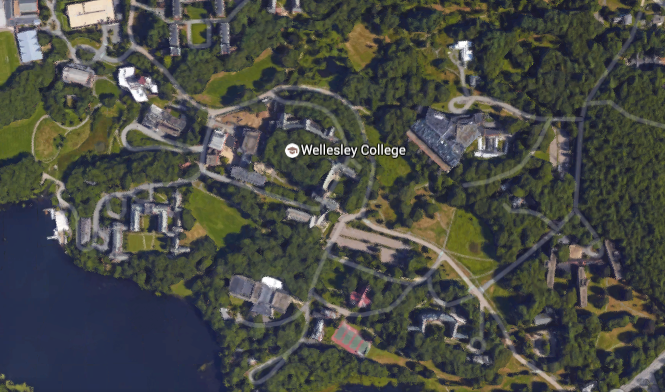
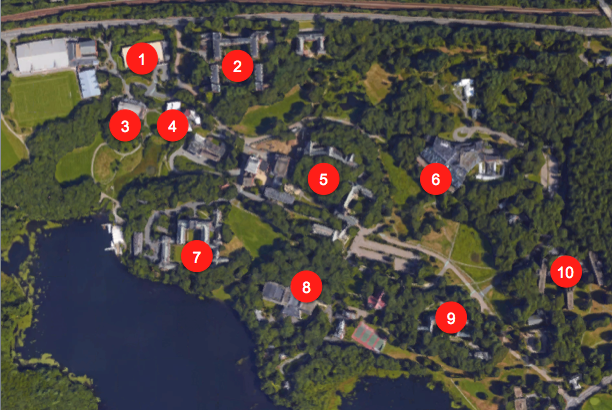
GUI
Working Submit button
Map w/ key

diff --git a/HomePanel.java b/HomePanel.java
@@ -19,9 +19,10 @@ import javax.imageio.ImageIO;
 
 public class HomePanel extends JPanel{
   private JLabel header, origin, destination, footer;
-  private JPanel navi;
+  private JPanel navi, map;
   private JComboBox orig, dest;
   private JButton submit;
+  private JTextArea keyText;
   
   public HomePanel(){
     setLayout (new BorderLayout());
@@ -29,7 +30,8 @@ public class HomePanel extends JPanel{
     header = new JLabel("\nPick your origin and destination below to receive the quickest path between them!", SwingConstants.CENTER);
     header.setFont(new Font("Courier New", Font.PLAIN, 16));
     
-    String[] locs = {"(1) Acad Quad", "(2) Library", "(3) Lulu", "(4) Res Quad", "(5) Science Center"};
+    String[] locs = {"(1) Acad Quad", "(2) Library", "(3) Lulu", "(4) Res Quad", "(5) Science Center"}; 
+    //^^will be taken from Map object
     
     //initialize combo boxes, using String array ratings for values
     orig = new JComboBox(locs);
@@ -48,7 +50,7 @@ public class HomePanel extends JPanel{
     
     //Creates panel for navigation options
     navi = new JPanel();
-    navi.setLayout(new BoxLayout(navi, BoxLayout.PAGE_AXIS));
+    navi.setLayout(new BoxLayout(navi, BoxLayout.Y_AXIS));
     navi.add(Box.createRigidArea(new Dimension(0, 50)));
     navi.add(origin);
     navi.add(Box.createRigidArea(new Dimension(0, 5)));
@@ -60,6 +62,11 @@ public class HomePanel extends JPanel{
     navi.add(submit);
     navi.add(Box.createRigidArea (new Dimension (0, 100)));
     
+    //creates panel for map and key
+    map = new JPanel();
+    map.setLayout(new BoxLayout(map, BoxLayout.X_AXIS));
+    map.add(Box.createRigidArea(new Dimension(100, 0)));
+    
     //adds map image
     try{
       BufferedImage myPicture = ImageIO.read(new File("map.png"));
@@ -67,14 +74,25 @@ public class HomePanel extends JPanel{
       Image img = pic.getImage();
       BufferedImage bi = new BufferedImage(img.getWidth(null), img.getHeight(null), BufferedImage.TYPE_INT_ARGB);
       Graphics g = bi.createGraphics();
-      g.drawImage(img, 100, 20, 500, 300, null); //locates and sizes image
+      g.drawImage(img, 100, 50, 500, 350, null); //locates and sizes image
       ImageIcon newIcon = new ImageIcon(bi);
       JLabel picLabel = new JLabel(newIcon);  //adds image to label
-      add(picLabel, BorderLayout.EAST); //adds label to panel
+      map.add(picLabel); //adds label to panel
     }
     catch(IOException io){
       System.out.println(io);
     }
+    
+    keyText = new JTextArea(1, 10);
+    keyText.setEditable(false);
+    keyText.setRows(1);
+    for(int i = 0; i < locs.length; i++){
+      keyText.append(locs[i]);
+      keyText.append("\n");
+    }
+    
+    JScrollPane jp = new JScrollPane(keyText);
+    map.add(jp);
     
     //Initializes footer
     footer = new JLabel("<Directions here>", SwingConstants.CENTER);
@@ -83,11 +101,18 @@ public class HomePanel extends JPanel{
     //adds elements to frame
     add(header, BorderLayout.NORTH);
     add(navi, BorderLayout.WEST);
+    add(map, BorderLayout.EAST);
     add(footer, BorderLayout.SOUTH);
   }
   
   private class submitListener implements ActionListener{
     public void actionPerformed(ActionEvent event){
+      //save combo box values as a string, if no value was chosen, the default value is 1
+      String origString = orig.getSelectedItem().toString();
+      String destString = dest.getSelectedItem().toString();
+      //call getDirections(origString, destString)
+      
+      footer.setText("Directions from " + origString + " to " + destString + ".");
     }
   }
 }

diff --git a/WalkingEffectGUI.java b/WalkingEffectGUI.java
@@ -22,8 +22,11 @@ public class WalkingEffectGUI{
     //creates a tabbed pane
     JTabbedPane tp = new JTabbedPane();
     
+    //creates Map object
+    Map map = new Map();
+    
     //adds three tabs
-    HomePanel home = new HomePanel();
+    HomePanel home = new HomePanel(); //will pass map into home
     AddLocationPanel addLoc = new AddLocationPanel();
     ExplorePanel ep = new ExplorePanel();
     tp.addTab("Home", home);

diff --git a/Map.java b/Map.java
@@ -1,8 +1,4 @@
 public class Map{
-  public static void main(String[] args){
-    System.out.println("Hello Alyssa and Hannah!");
-    System.out.println("new change");
-    System.out.println("This is Hannah");
-    System.out.println("This is Alyssa");
+  public Map(){
   }
 }
